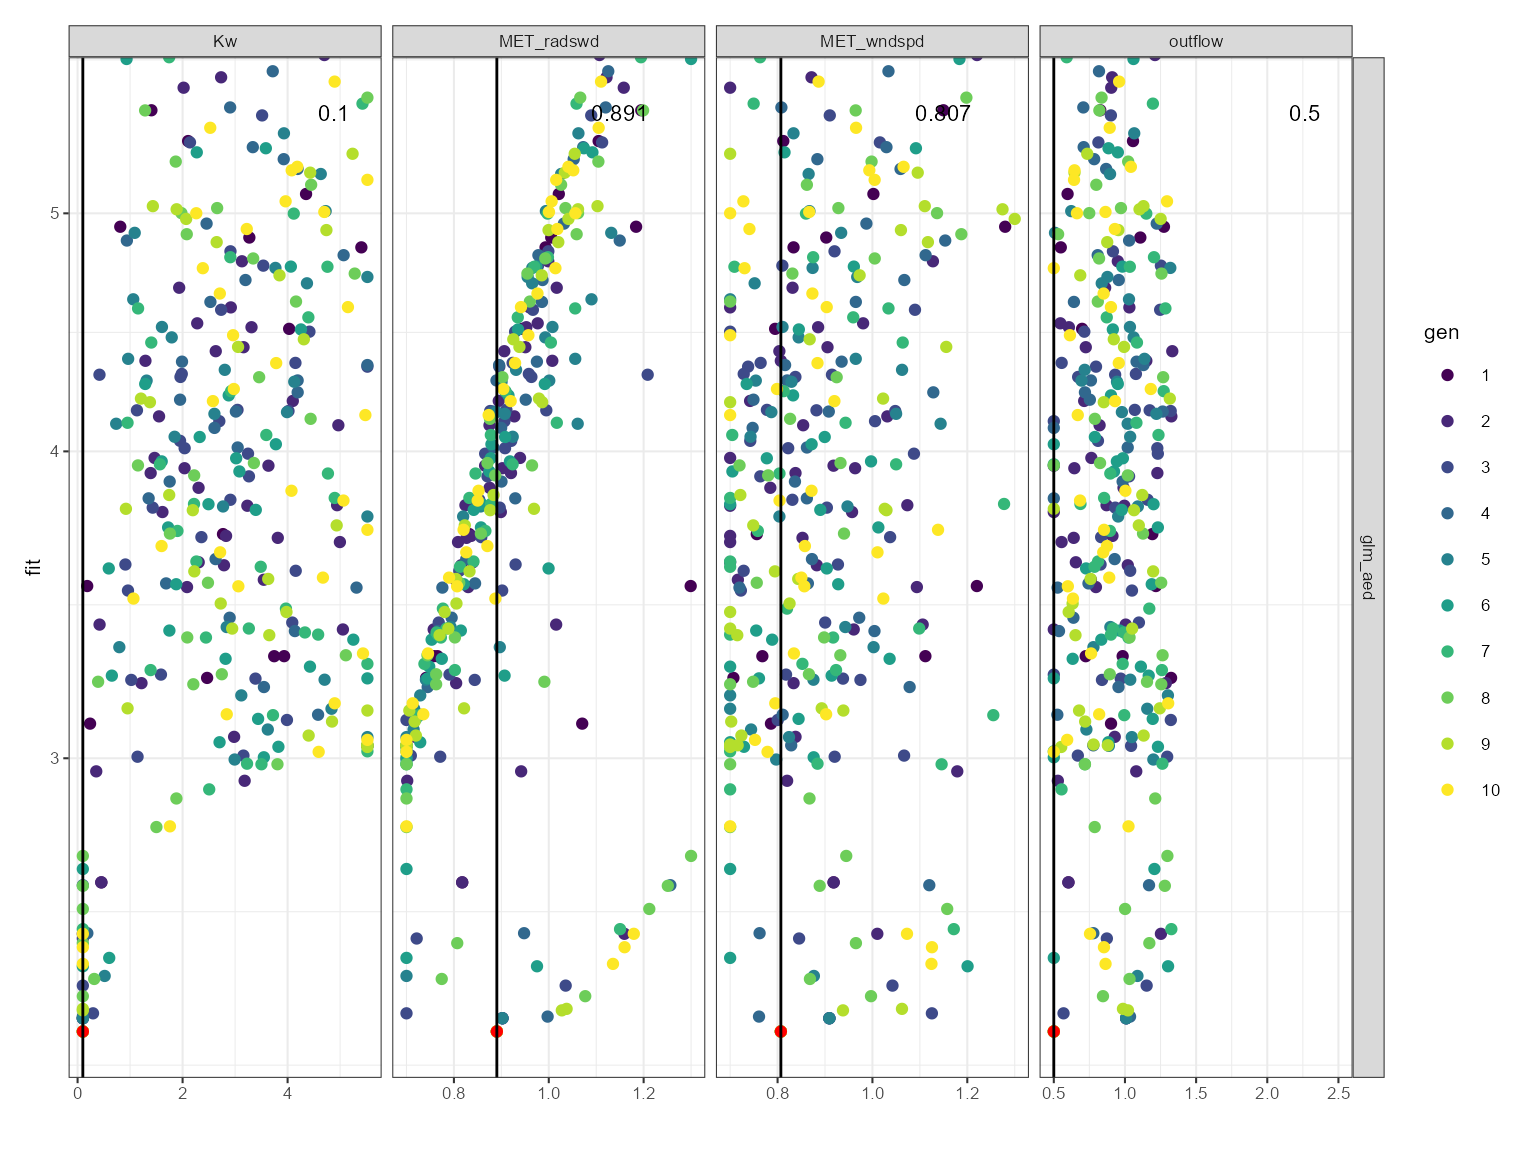
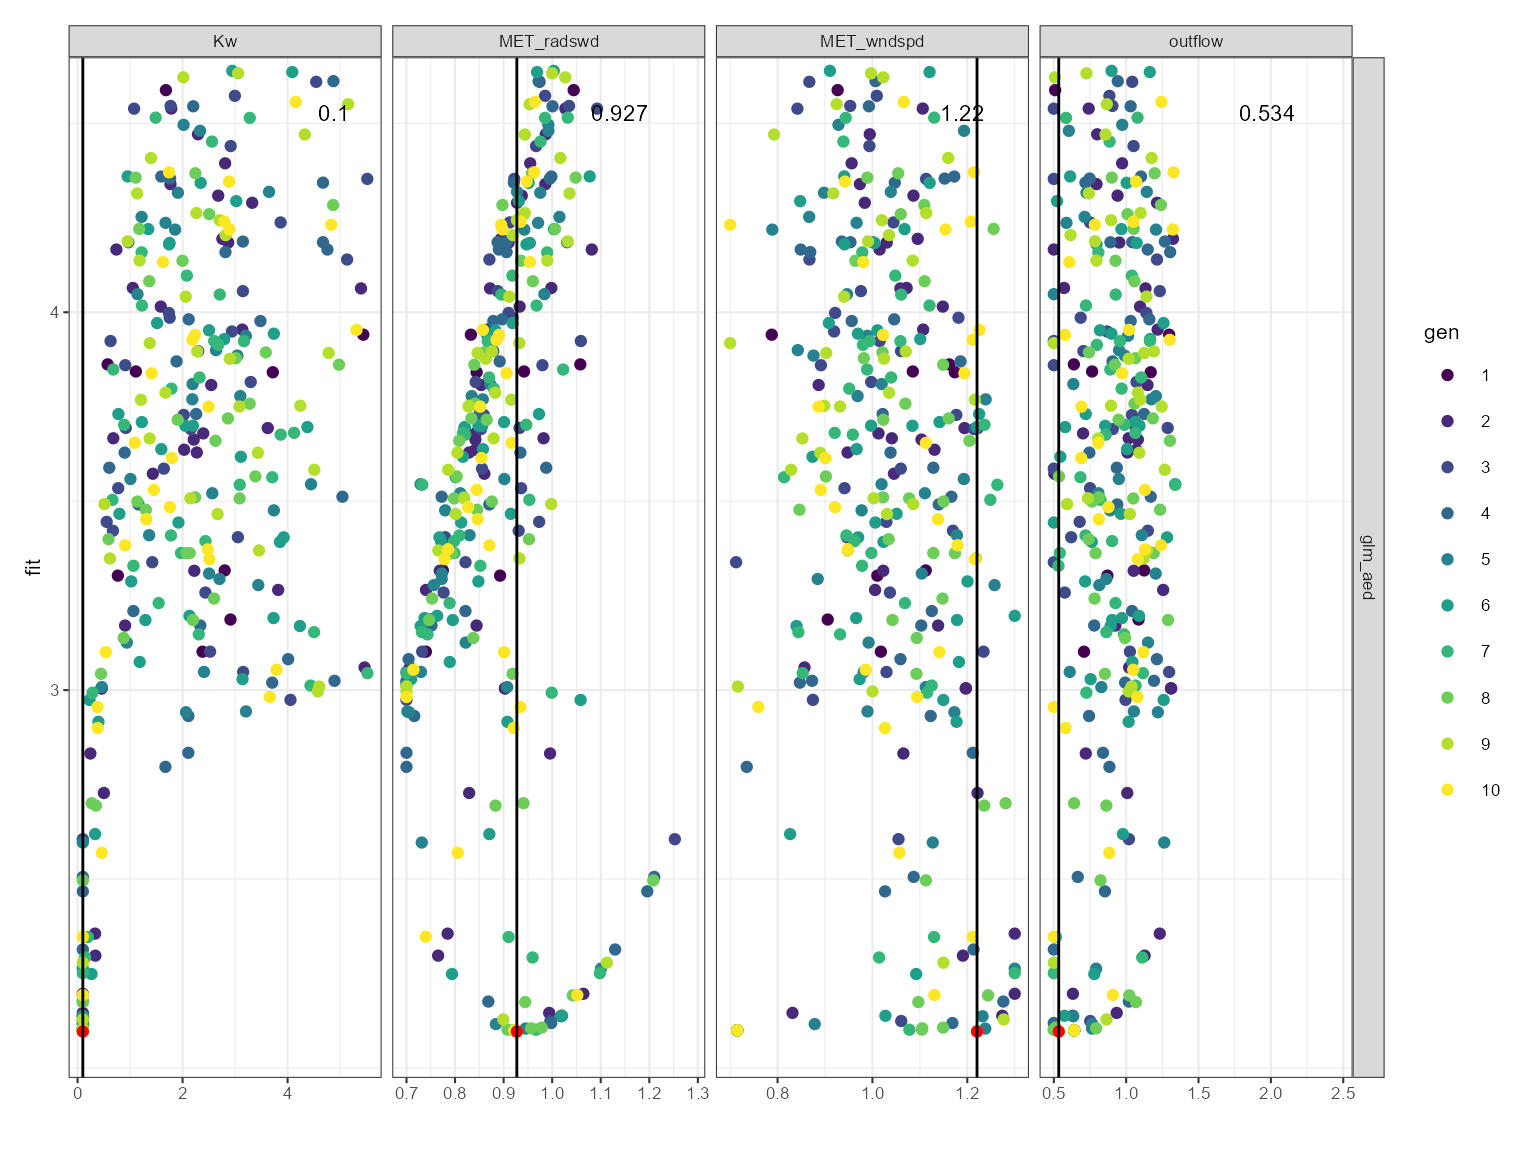
Deploying to gh-pages from @ limnotrack/aemetools@6f2587a38273b3818e4d6bc6aacca44763ac3293 🚀

diff --git a/articles/calibrate-aeme.html b/articles/calibrate-aeme.html
@@ -121,9 +121,9 @@ make sure the current model setup is working.</p>
 <code class="sourceCode R"><span><span class="va">aeme_data</span> <span class="op">&lt;-</span> <span class="fu"><a href="https://rdrr.io/pkg/AEME/man/run_aeme.html" class="external-link">run_aeme</a></span><span class="op">(</span>aeme_data <span class="op">=</span> <span class="va">aeme_data</span>, model <span class="op">=</span> <span class="va">model</span>,</span>
 <span>                      verbose <span class="op">=</span> <span class="cn">FALSE</span>, mod_ctrls <span class="op">=</span> <span class="va">mod_ctrls</span>,</span>
 <span>                      path <span class="op">=</span> <span class="va">path</span><span class="op">)</span></span>
-<span><span class="co">#&gt; Running models... (Have you tried parallelizing?) [2023-11-07 01:48:42.164625]</span></span>
-<span><span class="co">#&gt; GLM-AED run successful! [2023-11-07 01:48:43.037365]</span></span>
-<span><span class="co">#&gt; Model run complete![2023-11-07 01:48:43.038458]</span></span>
+<span><span class="co">#&gt; Running models... (Have you tried parallelizing?) [2023-11-07 03:07:08.982566]</span></span>
+<span><span class="co">#&gt; GLM-AED run successful! [2023-11-07 03:07:09.839955]</span></span>
+<span><span class="co">#&gt; Model run complete![2023-11-07 03:07:09.840931]</span></span>
 <span><span class="co">#&gt; Retrieving and formatting temp for model glm_aed</span></span>
 <span><span class="co">#&gt; Retrieving and formatting salt for model glm_aed</span></span>
 <span><span class="fu"><a href="https://rdrr.io/r/graphics/plot.default.html" class="external-link">plot</a></span><span class="op">(</span><span class="va">aeme_data</span><span class="op">)</span></span></code></pre></div>
@@ -228,9 +228,9 @@ but the model output is generate within the lake folder.</p>
 <div class="sourceCode" id="cb7"><pre class="downlit sourceCode r">
 <code class="sourceCode R"><span><span class="fu"><a href="../reference/run_aeme_param.html">run_aeme_param</a></span><span class="op">(</span>aeme_data <span class="op">=</span> <span class="va">aeme_data</span>, param <span class="op">=</span> <span class="va">aeme_parameters</span>,</span>
 <span>                 model <span class="op">=</span> <span class="va">model</span>, path <span class="op">=</span> <span class="va">path</span>, mod_ctrls <span class="op">=</span> <span class="va">mod_ctrls</span><span class="op">)</span></span>
-<span><span class="co">#&gt; Running models... (Have you tried parallelizing?) [2023-11-07 01:48:47.209286]</span></span>
-<span><span class="co">#&gt; GLM-AED run successful! [2023-11-07 01:48:47.952638]</span></span>
-<span><span class="co">#&gt; Model run complete![2023-11-07 01:48:47.953511]</span></span></code></pre></div>
+<span><span class="co">#&gt; Running models... (Have you tried parallelizing?) [2023-11-07 03:07:20.865187]</span></span>
+<span><span class="co">#&gt; GLM-AED run successful! [2023-11-07 03:07:21.692246]</span></span>
+<span><span class="co">#&gt; Model run complete![2023-11-07 03:07:21.693143]</span></span></code></pre></div>
 </div>
 <div class="section level2">
 <h2 id="calibration-setup">Calibration setup<a class="anchor" aria-label="anchor" href="#calibration-setup"></a>
@@ -364,79 +364,79 @@ values.</p>
 <span>                   param <span class="op">=</span> <span class="va">aeme_parameters</span>, model <span class="op">=</span> <span class="va">model</span>,</span>
 <span>                   mod_ctrls <span class="op">=</span> <span class="va">mod_ctrls</span>, FUN <span class="op">=</span> <span class="va">fit</span>, ctrl <span class="op">=</span> <span class="va">ctrl</span>,</span>
 <span>                   vars_sim <span class="op">=</span> <span class="va">vars_sim</span>, weights <span class="op">=</span> <span class="va">weights</span><span class="op">)</span></span>
-<span><span class="co">#&gt; Extracting indices for modelled variables [2023-11-07 01:48:48.463362]</span></span>
-<span><span class="co">#&gt; Complete! [2023-11-07 01:48:49.3877]</span></span>
+<span><span class="co">#&gt; Extracting indices for modelled variables [2023-11-07 03:07:22.087382]</span></span>
+<span><span class="co">#&gt; Complete! [2023-11-07 03:07:23.004649]</span></span>
 <span><span class="co">#&gt; Calibrating in parallel using 1 cores...</span></span>
-<span><span class="co">#&gt; Starting generation 1/10, 40 members. [2023-11-07 01:48:49.720598]</span></span>
+<span><span class="co">#&gt; Starting generation 1/10, 40 members. [2023-11-07 03:07:23.305832]</span></span>
 <span><span class="co">#&gt;        light.Kw MET_wndspd MET_radswd outflow</span></span>
-<span><span class="co">#&gt; mean      2.802     1.0000     1.0010  1.5000</span></span>
-<span><span class="co">#&gt; median    2.796     0.9945     0.9992  1.4870</span></span>
-<span><span class="co">#&gt; sd        1.576     0.1752     0.1753  0.5851</span></span>
-<span><span class="co">#&gt; Best fit: 2.671 (sd: 327.713)</span></span>
-<span><span class="co">#&gt;             Parameters: [0.452, 0.918, 0.817, 0.603]</span></span>
+<span><span class="co">#&gt; mean      2.816     0.9990     0.9994  1.4990</span></span>
+<span><span class="co">#&gt; median    2.857     0.9985     1.0000  1.4870</span></span>
+<span><span class="co">#&gt; sd        1.578     0.1743     0.1742  0.5879</span></span>
+<span><span class="co">#&gt; Best fit: 3.004 (sd: 325.652)</span></span>
+<span><span class="co">#&gt;             Parameters: [0.457, 1.197, 0.903, 1.31]</span></span>
 <span><span class="co">#&gt; Survival rate: 1</span></span>
-<span><span class="co">#&gt; Starting generation 2/10, 40 members. [2023-11-07 01:49:31.729089]</span></span>
+<span><span class="co">#&gt; Starting generation 2/10, 40 members. [2023-11-07 03:08:03.691442]</span></span>
 <span><span class="co">#&gt;        light.Kw MET_wndspd MET_radswd outflow</span></span>
-<span><span class="co">#&gt; mean      2.484     0.8858     0.9167  0.9072</span></span>
-<span><span class="co">#&gt; median    2.450     0.8716     0.9022  0.9101</span></span>
-<span><span class="co">#&gt; sd        1.397     0.1420     0.1206  0.2855</span></span>
-<span><span class="co">#&gt; Best fit: 2.3511 (sd: 129.04)</span></span>
+<span><span class="co">#&gt; mean      2.034     1.0560     0.9097  1.0350</span></span>
+<span><span class="co">#&gt; median    1.907     1.0650     0.8988  1.0190</span></span>
+<span><span class="co">#&gt; sd        1.611     0.1415     0.1185  0.3445</span></span>
+<span><span class="co">#&gt; Best fit: 2.3153 (sd: 194.54)</span></span>
 <span><span class="co">#&gt; Survival rate: 1</span></span>
-<span><span class="co">#&gt; Starting generation 3/10, 40 members. [2023-11-07 01:50:17.106151]</span></span>
+<span><span class="co">#&gt; Starting generation 3/10, 40 members. [2023-11-07 03:08:44.778099]</span></span>
 <span><span class="co">#&gt;        light.Kw MET_wndspd MET_radswd outflow</span></span>
-<span><span class="co">#&gt; mean      2.426     0.8922     0.9038  1.0130</span></span>
-<span><span class="co">#&gt; median    2.412     0.9092     0.9022  1.0090</span></span>
-<span><span class="co">#&gt; sd        1.455     0.1204     0.1311  0.3486</span></span>
-<span><span class="co">#&gt; Best fit: 2.3511 (sd: 156.2)</span></span>
+<span><span class="co">#&gt; mean      2.210     1.0030     0.8888  1.0210</span></span>
+<span><span class="co">#&gt; median    2.226     1.0160     0.8799  1.0080</span></span>
+<span><span class="co">#&gt; sd        1.497     0.1381     0.1147  0.4438</span></span>
+<span><span class="co">#&gt; Best fit: 2.3153 (sd: 230.88)</span></span>
 <span><span class="co">#&gt; Survival rate: 1</span></span>
-<span><span class="co">#&gt; Starting generation 4/10, 40 members. [2023-11-07 01:51:01.240084]</span></span>
+<span><span class="co">#&gt; Starting generation 4/10, 40 members. [2023-11-07 03:09:26.310588]</span></span>
 <span><span class="co">#&gt;        light.Kw MET_wndspd MET_radswd outflow</span></span>
-<span><span class="co">#&gt; mean      2.841     0.9377     0.9657  0.9461</span></span>
-<span><span class="co">#&gt; median    2.896     0.9350     0.9479  0.9276</span></span>
-<span><span class="co">#&gt; sd        1.598     0.1263     0.1497  0.3600</span></span>
-<span><span class="co">#&gt; Best fit: 2.3511 (sd: 182.57)</span></span>
+<span><span class="co">#&gt; mean      2.396     1.0260     0.8890  1.0630</span></span>
+<span><span class="co">#&gt; median    2.221     1.0280     0.8889  1.0310</span></span>
+<span><span class="co">#&gt; sd        1.564     0.1285     0.1301  0.3361</span></span>
+<span><span class="co">#&gt; Best fit: 2.3153 (sd: 217.68)</span></span>
 <span><span class="co">#&gt; Survival rate: 1</span></span>
-<span><span class="co">#&gt; Starting generation 5/10, 40 members. [2023-11-07 01:51:46.285869]</span></span>
+<span><span class="co">#&gt; Starting generation 5/10, 40 members. [2023-11-07 03:10:06.952349]</span></span>
 <span><span class="co">#&gt;        light.Kw MET_wndspd MET_radswd outflow</span></span>
-<span><span class="co">#&gt; mean      2.808     0.8780     0.9238  1.0520</span></span>
-<span><span class="co">#&gt; median    2.771     0.8655     0.9310  1.0280</span></span>
-<span><span class="co">#&gt; sd        1.726     0.1207     0.1465  0.3222</span></span>
-<span><span class="co">#&gt; Best fit: 2.3221 (sd: 194.38)</span></span>
+<span><span class="co">#&gt; mean      2.286     1.0320     0.8770  0.9948</span></span>
+<span><span class="co">#&gt; median    2.261     1.0060     0.8723  0.9500</span></span>
+<span><span class="co">#&gt; sd        1.497     0.1406     0.1085  0.3671</span></span>
+<span><span class="co">#&gt; Best fit: 2.3153 (sd: 198.72)</span></span>
 <span><span class="co">#&gt; Survival rate: 1</span></span>
-<span><span class="co">#&gt; Starting generation 6/10, 40 members. [2023-11-07 01:52:29.28404]</span></span>
+<span><span class="co">#&gt; Starting generation 6/10, 40 members. [2023-11-07 03:10:47.974235]</span></span>
 <span><span class="co">#&gt;        light.Kw MET_wndspd MET_radswd outflow</span></span>
-<span><span class="co">#&gt; mean      2.613     0.8827     0.8877  1.0730</span></span>
-<span><span class="co">#&gt; median    2.704     0.8718     0.8791  0.9816</span></span>
-<span><span class="co">#&gt; sd        1.633     0.1466     0.1436  0.3964</span></span>
-<span><span class="co">#&gt; Best fit: 2.3221 (sd: 223.36)</span></span>
+<span><span class="co">#&gt; mean      2.138     1.0240    0.87190  0.9590</span></span>
+<span><span class="co">#&gt; median    2.092     1.0050    0.86770  0.9651</span></span>
+<span><span class="co">#&gt; sd        1.309     0.1263    0.09533  0.2917</span></span>
+<span><span class="co">#&gt; Best fit: 2.3153 (sd: 172.73)</span></span>
 <span><span class="co">#&gt; Survival rate: 1</span></span>
-<span><span class="co">#&gt; Starting generation 7/10, 40 members. [2023-11-07 01:53:12.048208]</span></span>
+<span><span class="co">#&gt; Starting generation 7/10, 40 members. [2023-11-07 03:11:29.557192]</span></span>
 <span><span class="co">#&gt;        light.Kw MET_wndspd MET_radswd outflow</span></span>
-<span><span class="co">#&gt; mean      3.093     0.8836     0.9287  1.0520</span></span>
-<span><span class="co">#&gt; median    3.227     0.8599     0.8830  1.0140</span></span>
-<span><span class="co">#&gt; sd        1.504     0.1683     0.1770  0.4137</span></span>
-<span><span class="co">#&gt; Best fit: 2.3221 (sd: 185.29)</span></span>
+<span><span class="co">#&gt; mean      2.321     1.0040     0.8813  0.9679</span></span>
+<span><span class="co">#&gt; median    2.379     0.9844     0.8777  0.9146</span></span>
+<span><span class="co">#&gt; sd        1.506     0.1343     0.1014  0.3732</span></span>
+<span><span class="co">#&gt; Best fit: 2.3153 (sd: 205.18)</span></span>
 <span><span class="co">#&gt; Survival rate: 1</span></span>
-<span><span class="co">#&gt; Starting generation 8/10, 40 members. [2023-11-07 01:53:55.539859]</span></span>
+<span><span class="co">#&gt; Starting generation 8/10, 40 members. [2023-11-07 03:12:10.921835]</span></span>
 <span><span class="co">#&gt;        light.Kw MET_wndspd MET_radswd outflow</span></span>
-<span><span class="co">#&gt; mean      2.298     0.9052     0.9535  1.0530</span></span>
-<span><span class="co">#&gt; median    2.079     0.8888     0.9311  1.0230</span></span>
-<span><span class="co">#&gt; sd        1.635     0.1419     0.1689  0.3536</span></span>
-<span><span class="co">#&gt; Best fit: 2.3221 (sd: 212.16)</span></span>
+<span><span class="co">#&gt; mean      1.863      1.091     0.9013   1.012</span></span>
+<span><span class="co">#&gt; median    1.952      1.100     0.8904   1.001</span></span>
+<span><span class="co">#&gt; sd        1.469      0.116     0.1120   0.321</span></span>
+<span><span class="co">#&gt; Best fit: 2.3153 (sd: 184.88)</span></span>
 <span><span class="co">#&gt; Survival rate: 1</span></span>
-<span><span class="co">#&gt; Starting generation 9/10, 40 members. [2023-11-07 01:54:38.635759]</span></span>
+<span><span class="co">#&gt; Starting generation 9/10, 40 members. [2023-11-07 03:12:51.335491]</span></span>
 <span><span class="co">#&gt;        light.Kw MET_wndspd MET_radswd outflow</span></span>
-<span><span class="co">#&gt; mean      3.095     0.9102     0.9133  1.0380</span></span>
-<span><span class="co">#&gt; median    3.056     0.9379     0.9252  1.0210</span></span>
-<span><span class="co">#&gt; sd        1.622     0.1756     0.1434  0.3924</span></span>
-<span><span class="co">#&gt; Best fit: 2.3221 (sd: 212.36)</span></span>
+<span><span class="co">#&gt; mean      2.467     0.9786     0.9138  0.9780</span></span>
+<span><span class="co">#&gt; median    2.271     0.9841     0.9208  1.0220</span></span>
+<span><span class="co">#&gt; sd        1.528     0.1303     0.1095  0.2863</span></span>
+<span><span class="co">#&gt; Best fit: 2.3153 (sd: 177.41)</span></span>
 <span><span class="co">#&gt; Survival rate: 1</span></span>
-<span><span class="co">#&gt; Starting generation 10/10, 40 members. [2023-11-07 01:55:21.844218]</span></span>
+<span><span class="co">#&gt; Starting generation 10/10, 40 members. [2023-11-07 03:13:33.119106]</span></span>
 <span><span class="co">#&gt;        light.Kw MET_wndspd MET_radswd outflow</span></span>
-<span><span class="co">#&gt; mean      3.391     0.8810     0.9351  0.9233</span></span>
-<span><span class="co">#&gt; median    3.276     0.8667     0.9289  0.8633</span></span>
-<span><span class="co">#&gt; sd        1.601     0.1384     0.1583  0.4165</span></span>
-<span><span class="co">#&gt; Best fit: 2.3221 (sd: 172.7)</span></span>
+<span><span class="co">#&gt; mean      2.179     1.0290     0.8674  1.0380</span></span>
+<span><span class="co">#&gt; median    2.013     1.0210     0.8781  1.0500</span></span>
+<span><span class="co">#&gt; sd        1.492     0.1498     0.1090  0.3797</span></span>
+<span><span class="co">#&gt; Best fit: 2.3133 (sd: 209.42)</span></span>
 <span><span class="co">#&gt; Survival rate: 1</span></span></code></pre></div>
 </div>
 <div class="section level2">

diff --git a/articles/download-era5.html b/articles/download-era5.html
@@ -94,8 +94,8 @@ your computer to speed up the download.</p>
 <span><span class="va">met</span> <span class="op">&lt;-</span> <span class="fu"><a href="../reference/get_era5_point.html">get_era5_point</a></span><span class="op">(</span>lat <span class="op">=</span> <span class="va">lat</span>, lon <span class="op">=</span> <span class="va">lon</span>, years <span class="op">=</span> <span class="fl">2000</span><span class="op">:</span><span class="fl">2001</span>,</span>
 <span>                      variables <span class="op">=</span> <span class="va">variables</span>, format <span class="op">=</span> <span class="st">"aeme"</span>, parallel <span class="op">=</span> <span class="cn">TRUE</span><span class="op">)</span></span>
 <span><span class="co">#&gt; Auto-refreshing stale OAuth token.</span></span>
-<span><span class="co">#&gt; Downloading ERA5 variables in parallel... [2023-11-07 01:56:20.459243]</span></span>
-<span><span class="co">#&gt; Finished downloading ERA5 variables! [2023-11-07 01:56:33.250232]</span></span>
+<span><span class="co">#&gt; Downloading ERA5 variables in parallel... [2023-11-07 03:14:27.658778]</span></span>
+<span><span class="co">#&gt; Finished downloading ERA5 variables! [2023-11-07 03:14:38.165866]</span></span>
 <span><span class="fu"><a href="https://rdrr.io/r/base/summary.html" class="external-link">summary</a></span><span class="op">(</span><span class="va">met</span><span class="op">)</span></span>
 <span><span class="co">#&gt;       Date              MET_tmpair       MET_pprain     </span></span>
 <span><span class="co">#&gt;  Min.   :2000-01-01   Min.   : 3.407   Min.   : 0.0000  </span></span>
